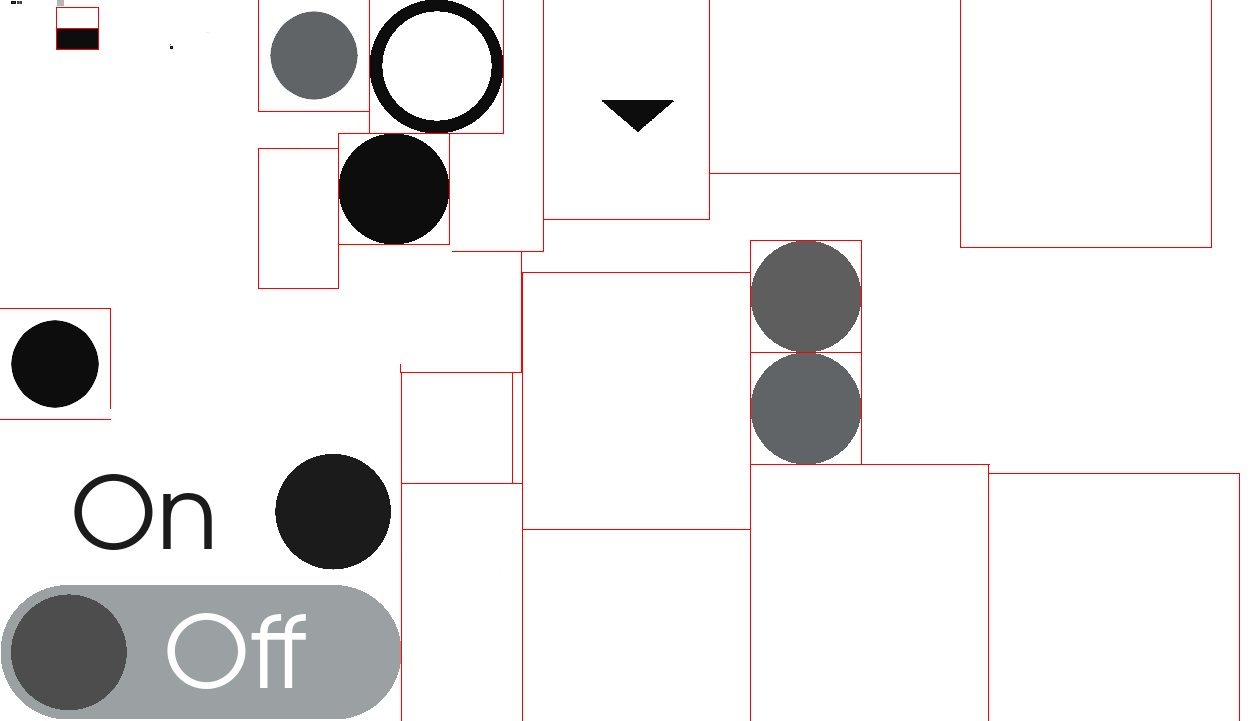
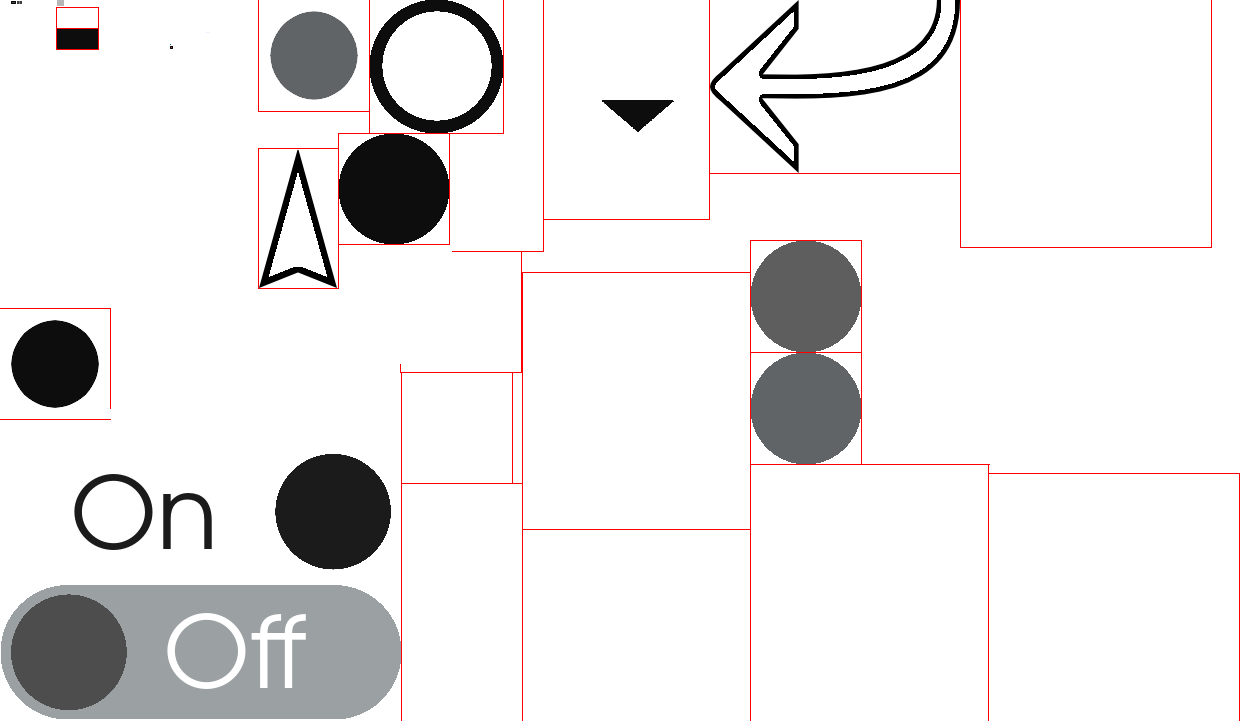
added black border around both arrows to make them better visible before bright background

Changed region(s): [[0.5616, 0.0, 0.78, 0.2441], [0.1872, 0.2136, 0.2808, 0.3967]]

diff --git a/core/src/de/fau/cs/mad/fly/ui/UserNameTextFieldFilter.java b/core/src/de/fau/cs/mad/fly/ui/UserNameTextFieldFilter.java
@@ -20,7 +20,7 @@ public class UserNameTextFieldFilter implements TextFieldFilter {
         if (textField.getText().length() >= PlayerProfile.MAX_NAME_LENGTH) {
             return false;
         } else {
-            return Character.isAlphabetic(c) || Character.isDigit(c);
+            return Character.isLetter(c) || Character.isDigit(c);
         }
     }
 }
